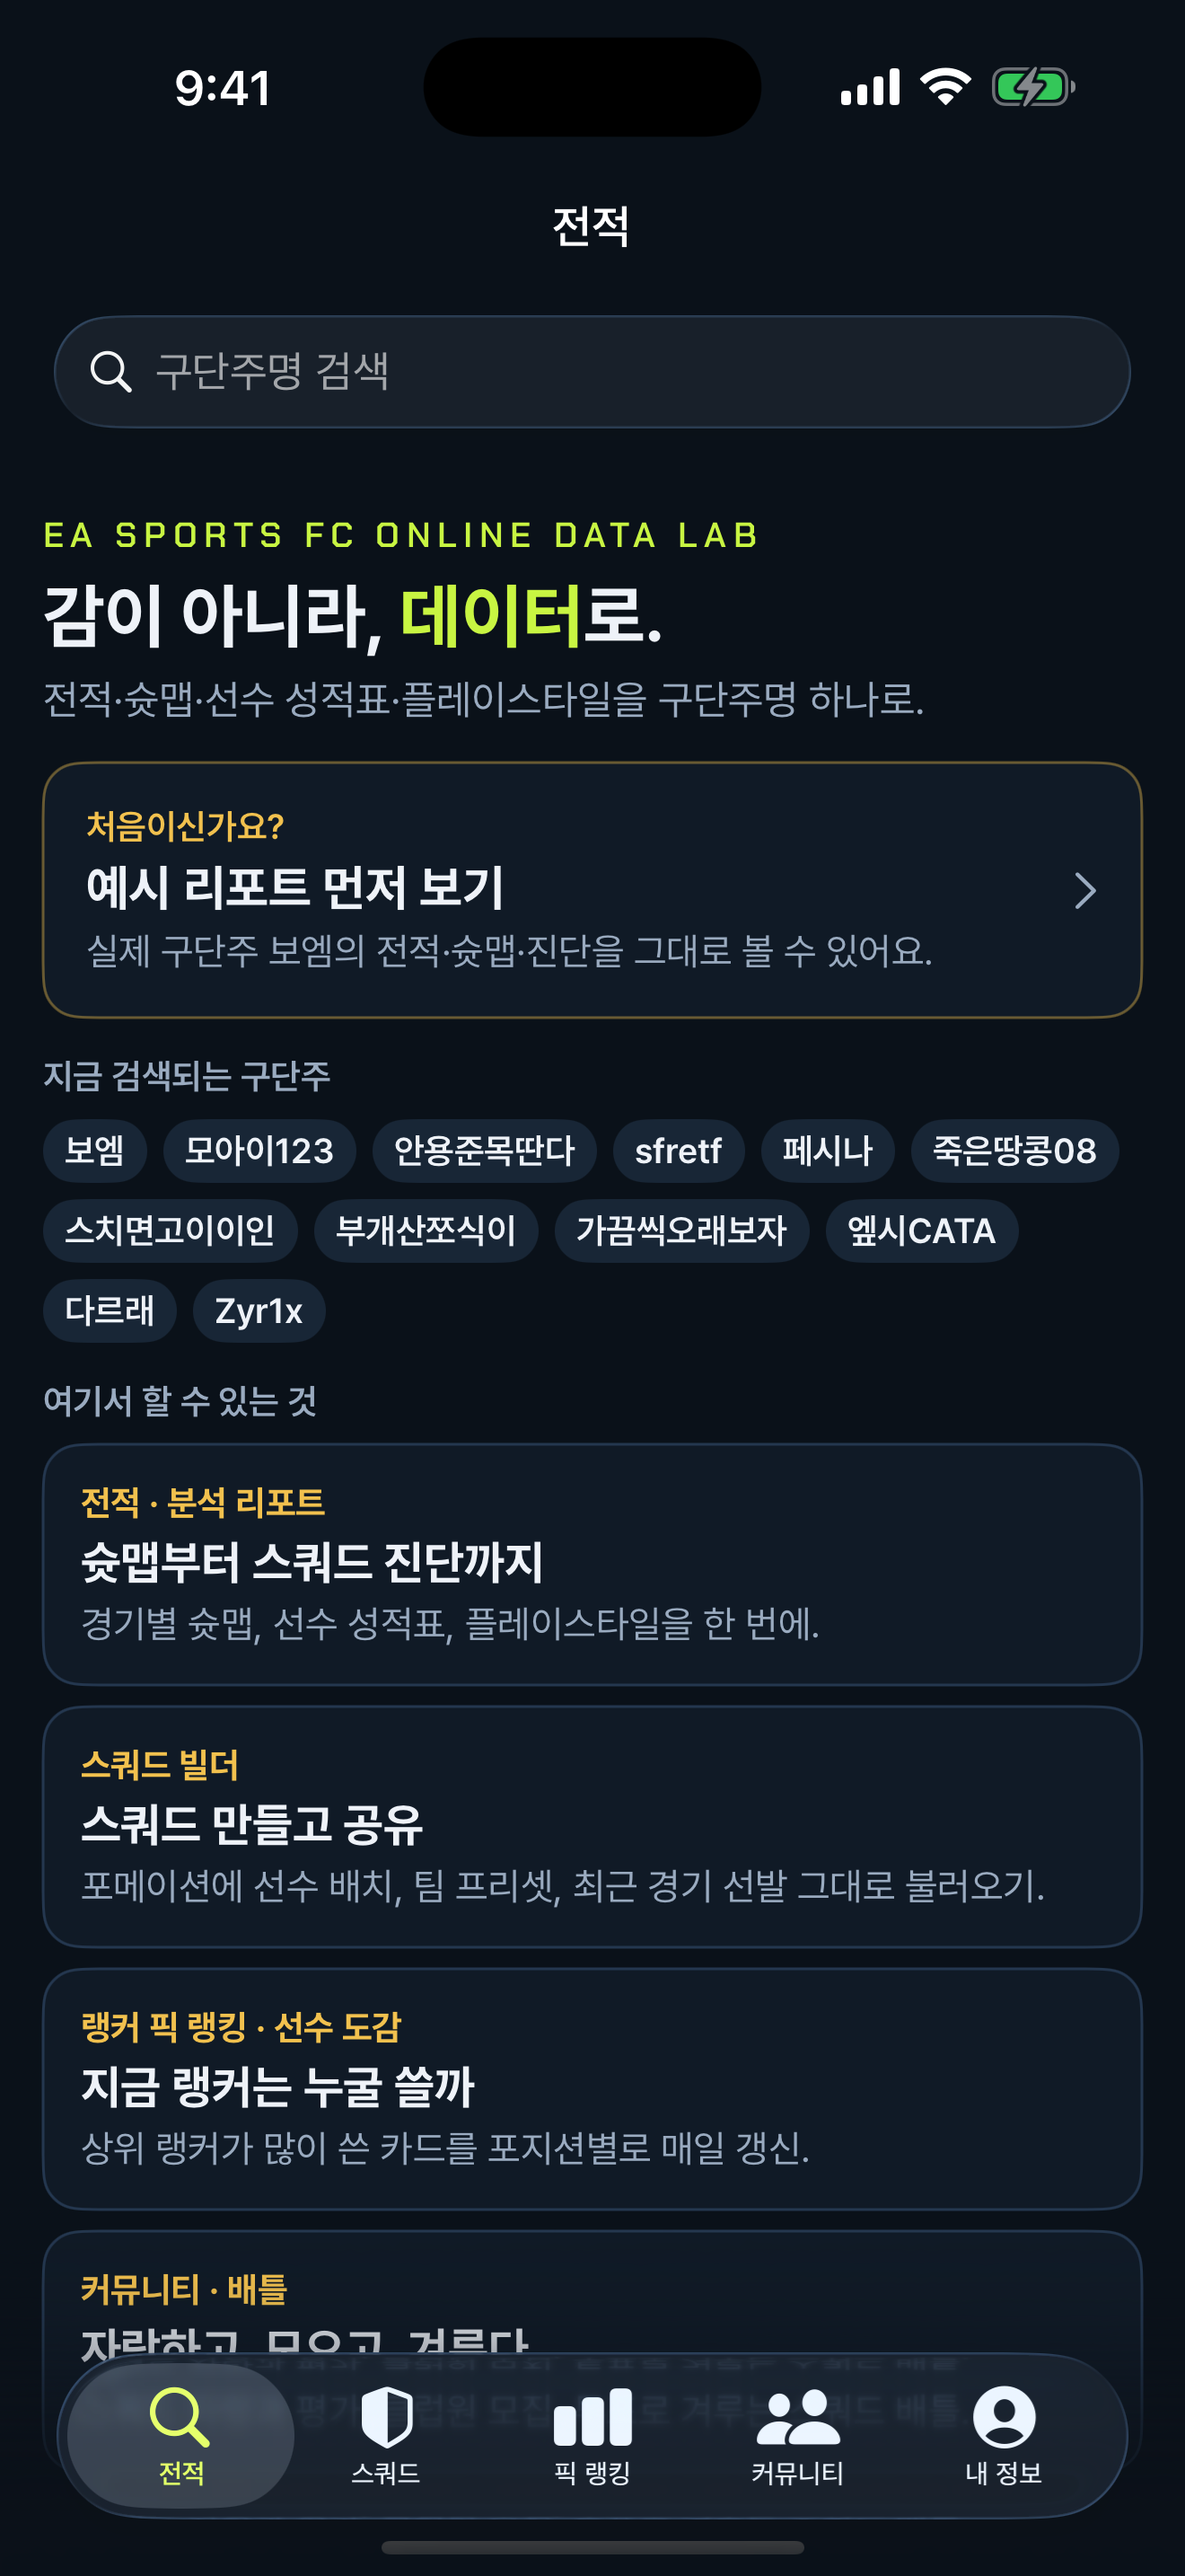
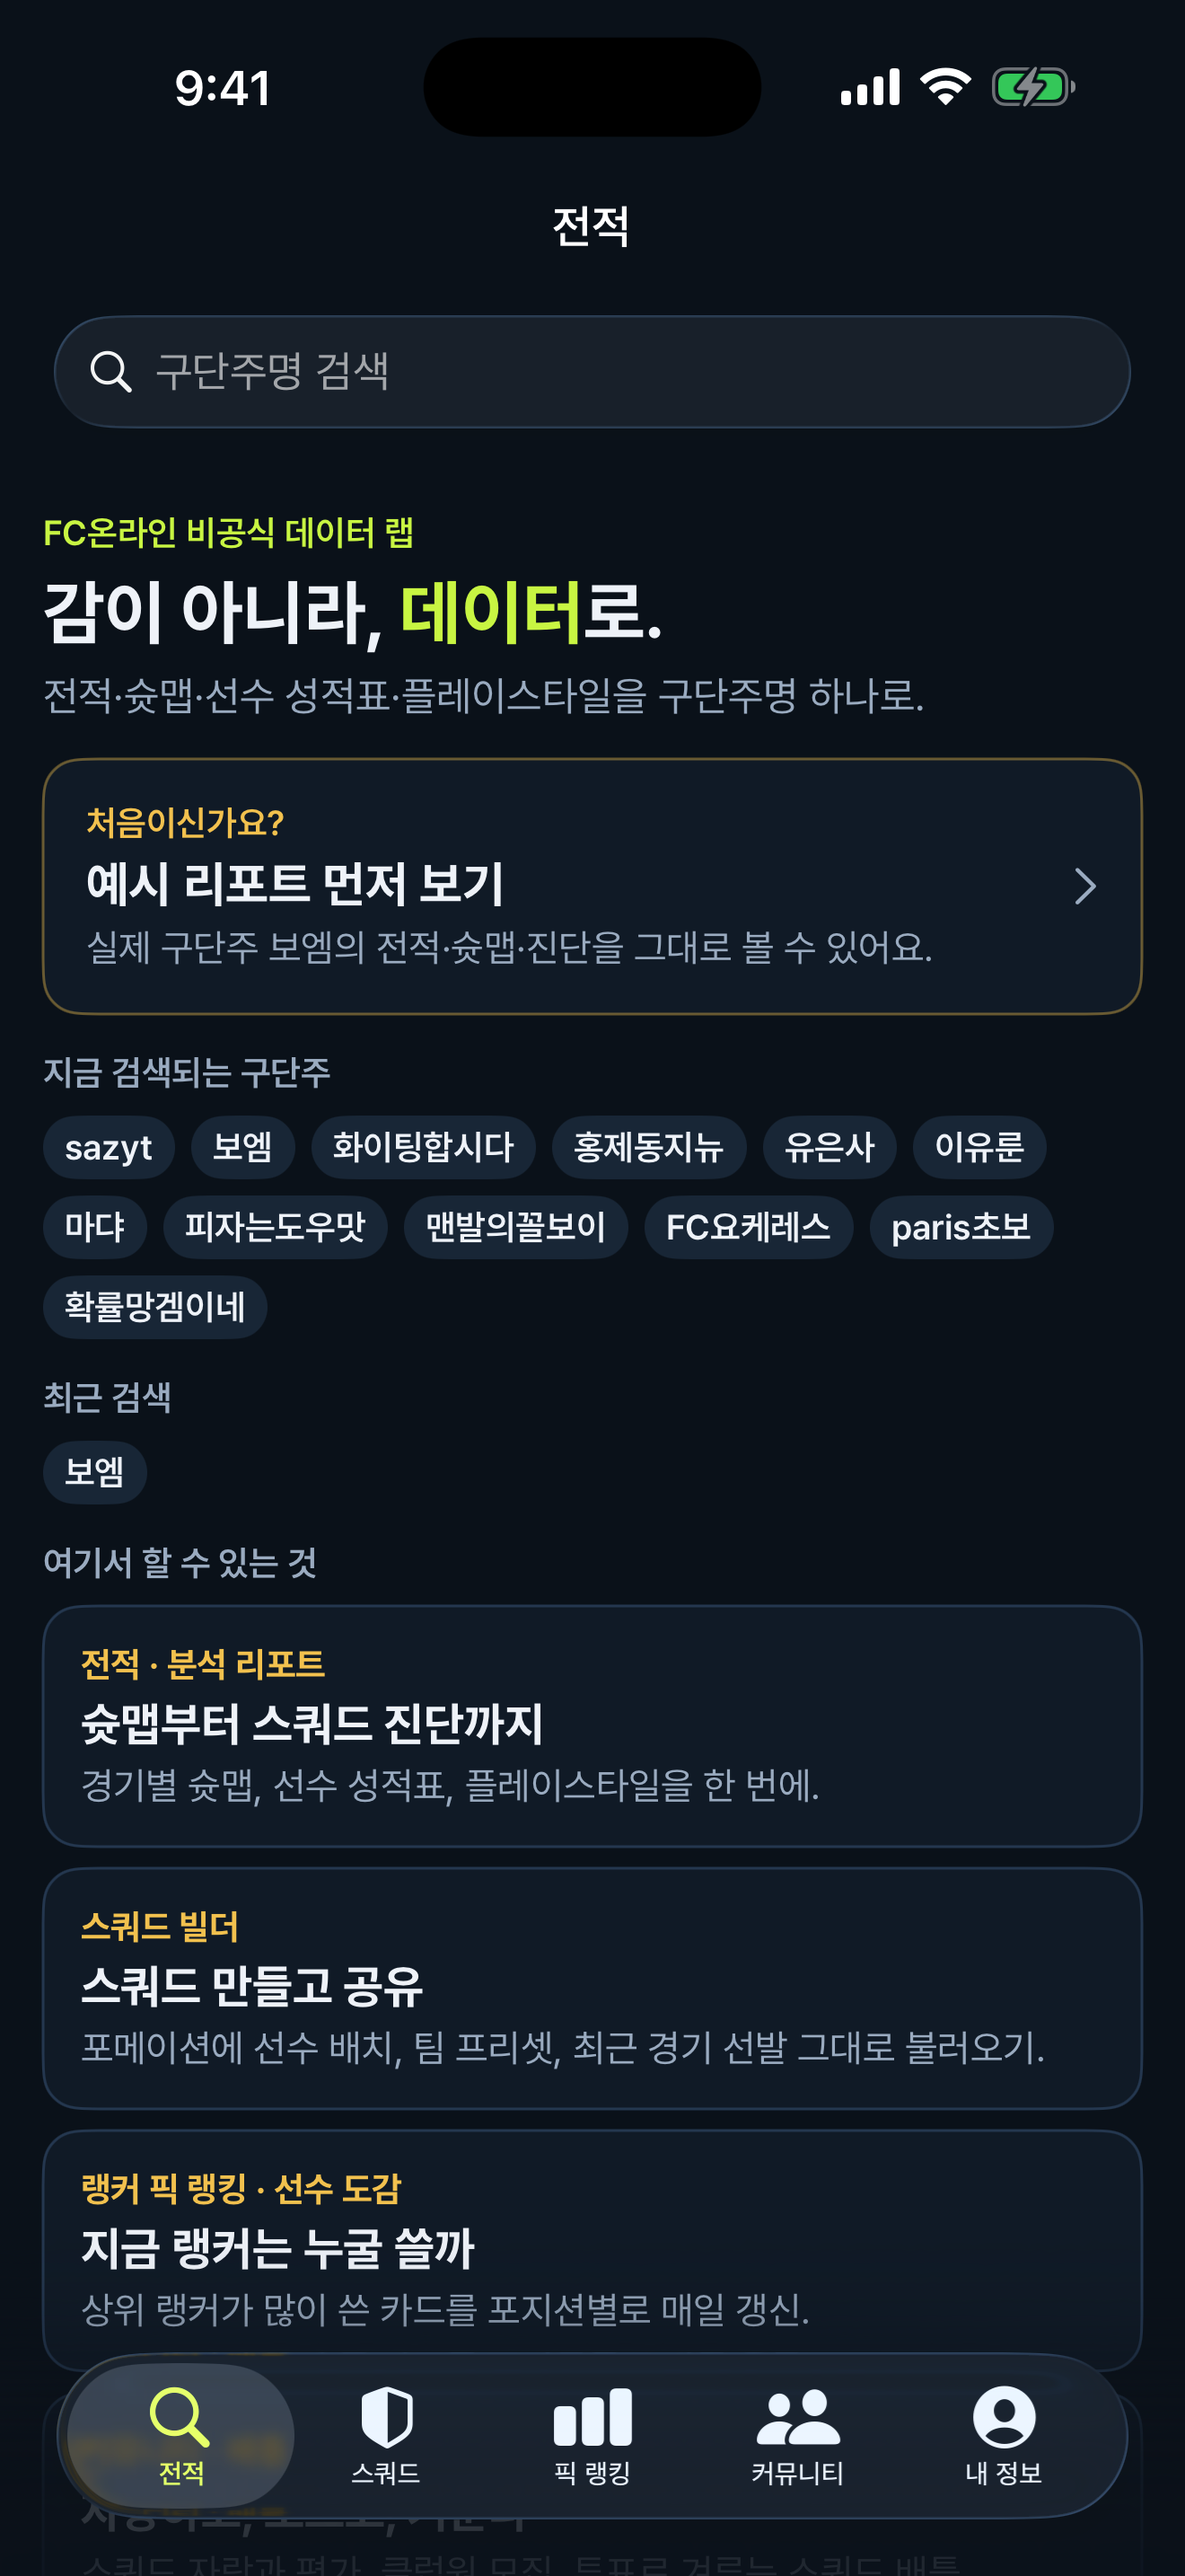
docs(screenshots): retake 01 (unofficial label) and 04 (clinic + players) for build 4

diff --git a/docs/STORE-LISTING.md b/docs/STORE-LISTING.md
@@ -121,7 +121,7 @@ https://www.fcscope.xyz/privacy
 
 ## 스크린샷 (6.9형 1320×2868, 최대 10장)
 `docs/screenshots/` 의 파일을 번호 순서대로 올립니다(iPhone 17 Pro Max 시뮬레이터, 1320×2868, 다크 모드, 예시 계정 보엠).
-1. `01-home.png` 홈 · 2. `02-record.png` 전적 · 3. `03-match-report.png` 매치 리포트 슛맵 · 4. `04-players.png` 스쿼드 클리닉
+1. `01-home.png` 홈 · 2. `02-record.png` 전적 · 3. `03-match-report.png` 매치 리포트 슛맵 · 4. `04-players.png` 스쿼드 클리닉 + 선수 성적표
 5. `05-report.png` 분석 리포트 · 6. `06-squad.png` 최근 선발 그대로 불러온 스쿼드
 
 > ⚠ 01(홈 "지금 검색되는 구단주")과 03(상대 구단주명)에 다른 이용자의 **공개 게임 닉네임**이 보입니다. 불편하면 01·03을 빼고 올리세요.
